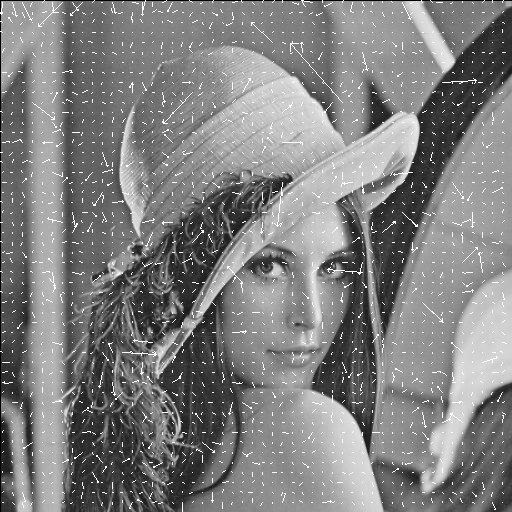
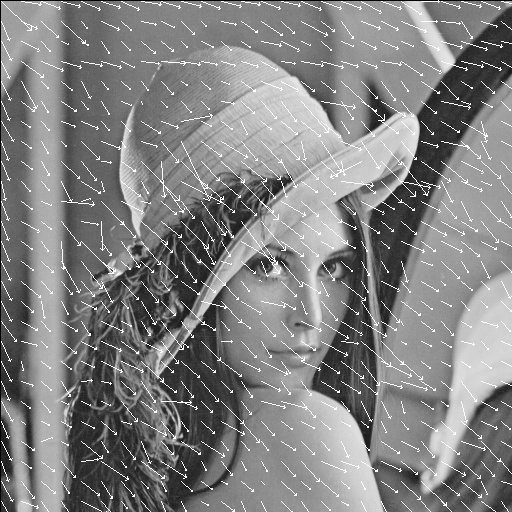
fixed bugs

diff --git a/hw3/hw3.cpp b/hw3/hw3.cpp
@@ -48,11 +48,11 @@ void drawOpticalFlow(Mat &img1, Mat &img2, int iter, double lamb)
 {
     Mat u, v, result;
     img2.copyTo(result);
-    int scale = 10;
+    int scale = 20;
 
     calHornSchunck(img1, img2, u, v, iter, lamb);
-    for(int i = 2; i < u.cols; i += scale)
-        for(int j = 2; j < v.cols; j += scale)
+    for(int i = 1; i < u.cols; i += scale)
+        for(int j = 1; j < v.cols; j += scale)
             arrowedLine(result, Point(i, j), Point(i + scale * u.at<double>(i, j), j + scale * v.at<double>(i, j)), Scalar(255));
 
     ostringstream temp;
@@ -69,8 +69,8 @@ void calHornSchunck(Mat &img1, Mat& img2, Mat &u, Mat &v, int iter, double lamb)
     u = Mat::zeros(gradt.rows, gradt.cols, CV_64FC1);
     v = Mat::zeros(gradt.rows, gradt.cols, CV_64FC1);
     int window_size = 3;
-    Mat kernel = Mat::ones(window_size, window_size, CV_64FC1) / pow(window_size, 2);
-    Point anchor(window_size - (window_size / 2) - 1, window_size - (window_size / 2) - 1);
+    Mat kernel = (Mat_<double>(window_size, window_size) << 1/12., 1/6., 1/12., 1/6., 0, 1/6., 1/12., 1/6., 1/12.);
+    Point anchor(-1, -1);
     
     for (int i = 0; i < iter; ++i)
     {
@@ -84,7 +84,7 @@ void calHornSchunck(Mat &img1, Mat& img2, Mat &u, Mat &v, int iter, double lamb)
         multiply(gradX, gradX, gradXgradX);
         multiply(gradY, gradY, gradYgradY);
         
-        divide((gradXuAvg + gradYvAvg + gradt), (pow(lamb, 2) + gradXgradX + gradYgradY), updateConst);
+        divide((gradXuAvg + gradYvAvg + gradt), (1. / lamb + (gradXgradX + gradYgradY)), updateConst);
         multiply(gradX, updateConst, uUpdateConst);
         multiply(gradY, updateConst, vUpdateConst);
         
@@ -99,7 +99,20 @@ void calGradient(Mat &img1, Mat &img2, Mat &X, Mat &Y, Mat &t)
     
     img1.convertTo(img1Norm, CV_64FC1);
     img2.convertTo(img2Norm, CV_64FC1);
-    Sobel(img1Norm, X, -1, 1, 0, 3);
-    Sobel(img1Norm, Y, -1, 0, 1, 3);
-    t = img2Norm - img1Norm;
+    Mat temp1, temp2;
+
+    Mat kernelX = (Mat_<double>(2, 2) << -1/4., 1/4., -1/4., 1/4.);
+    filter2D(img1Norm, temp1, -1, kernelX);
+    filter2D(img2Norm, temp2, -1, kernelX);
+    add(temp1, temp2, X);
+
+    Mat kernelY = (Mat_<double>(2, 2) << -1/4., -1/4., 1/4., 1/4.);
+    filter2D(img1Norm, temp1, -1, kernelY);
+    filter2D(img2Norm, temp2, -1, kernelY);
+    add(temp1, temp2, Y);
+
+    Mat kernelt = (Mat_<double>(2, 2) << 1/4., 1/4., 1/4., 1/4.);
+    filter2D(img1Norm, temp1, -1, -kernelt);
+    filter2D(img2Norm, temp2, -1, kernelt);
+    add(temp1, temp2, t);
 }

diff --git a/hw3/HW3.md b/hw3/HW3.md
@@ -27,3 +27,6 @@ All generated images are saved in `demo`
 |4|![HornSchunck_iter4_lamb0.1](demo/HornSchunck_iter4_lamb0.1.jpg)|![HornSchunck_iter4_lamb1](demo/HornSchunck_iter4_lamb1.jpg)|![HornSchunck_iter4_lamb10](demo/HornSchunck_iter4_lamb10.jpg)|
 |16|![HornSchunck_iter16_lamb0.1](demo/HornSchunck_iter16_lamb0.1.jpg)|![HornSchunck_iter16_lamb1](demo/HornSchunck_iter16_lamb1.jpg)|![HornSchunck_iter16_lamb10](demo/HornSchunck_iter16_lamb10.jpg)|
 |64|![HornSchunck_iter64_lamb0.1](demo/HornSchunck_iter64_lamb0.1.jpg)|![HornSchunck_iter64_lamb1](demo/HornSchunck_iter64_lamb1.jpg)|![HornSchunck_iter64_lamb10](demo/HornSchunck_iter64_lamb10.jpg)|
+
+#### Lambda = 0.1 changes with incresing iterations 
+![lambda 0.1](img/lambda0.1.gif)
